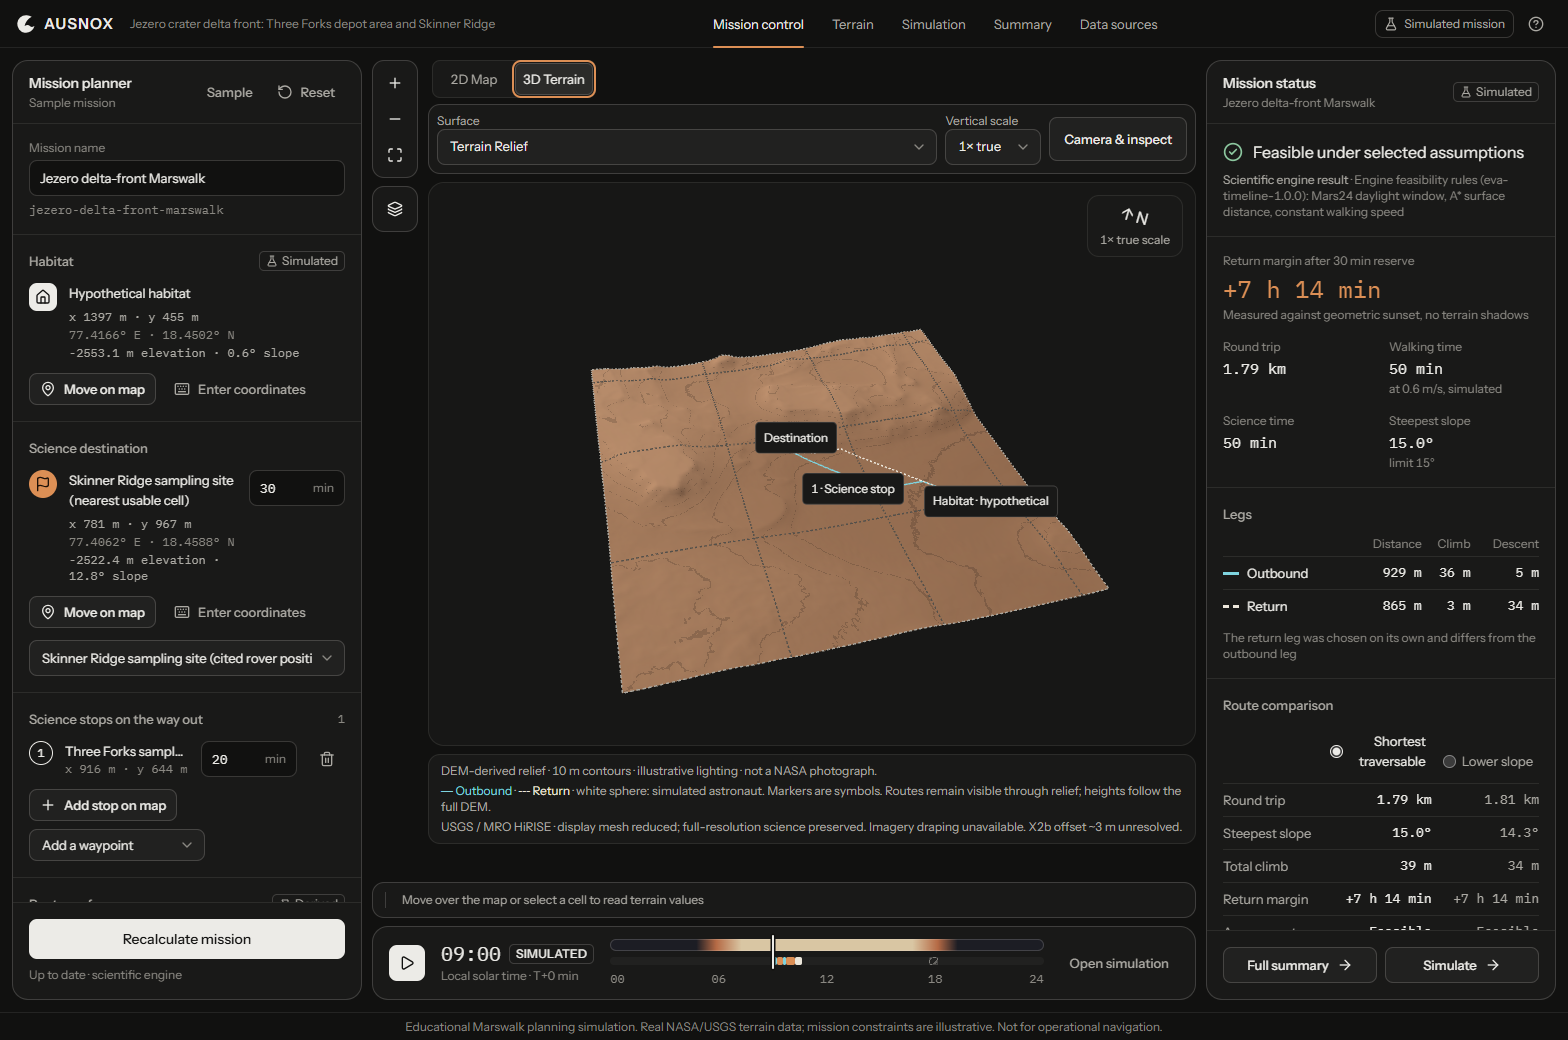
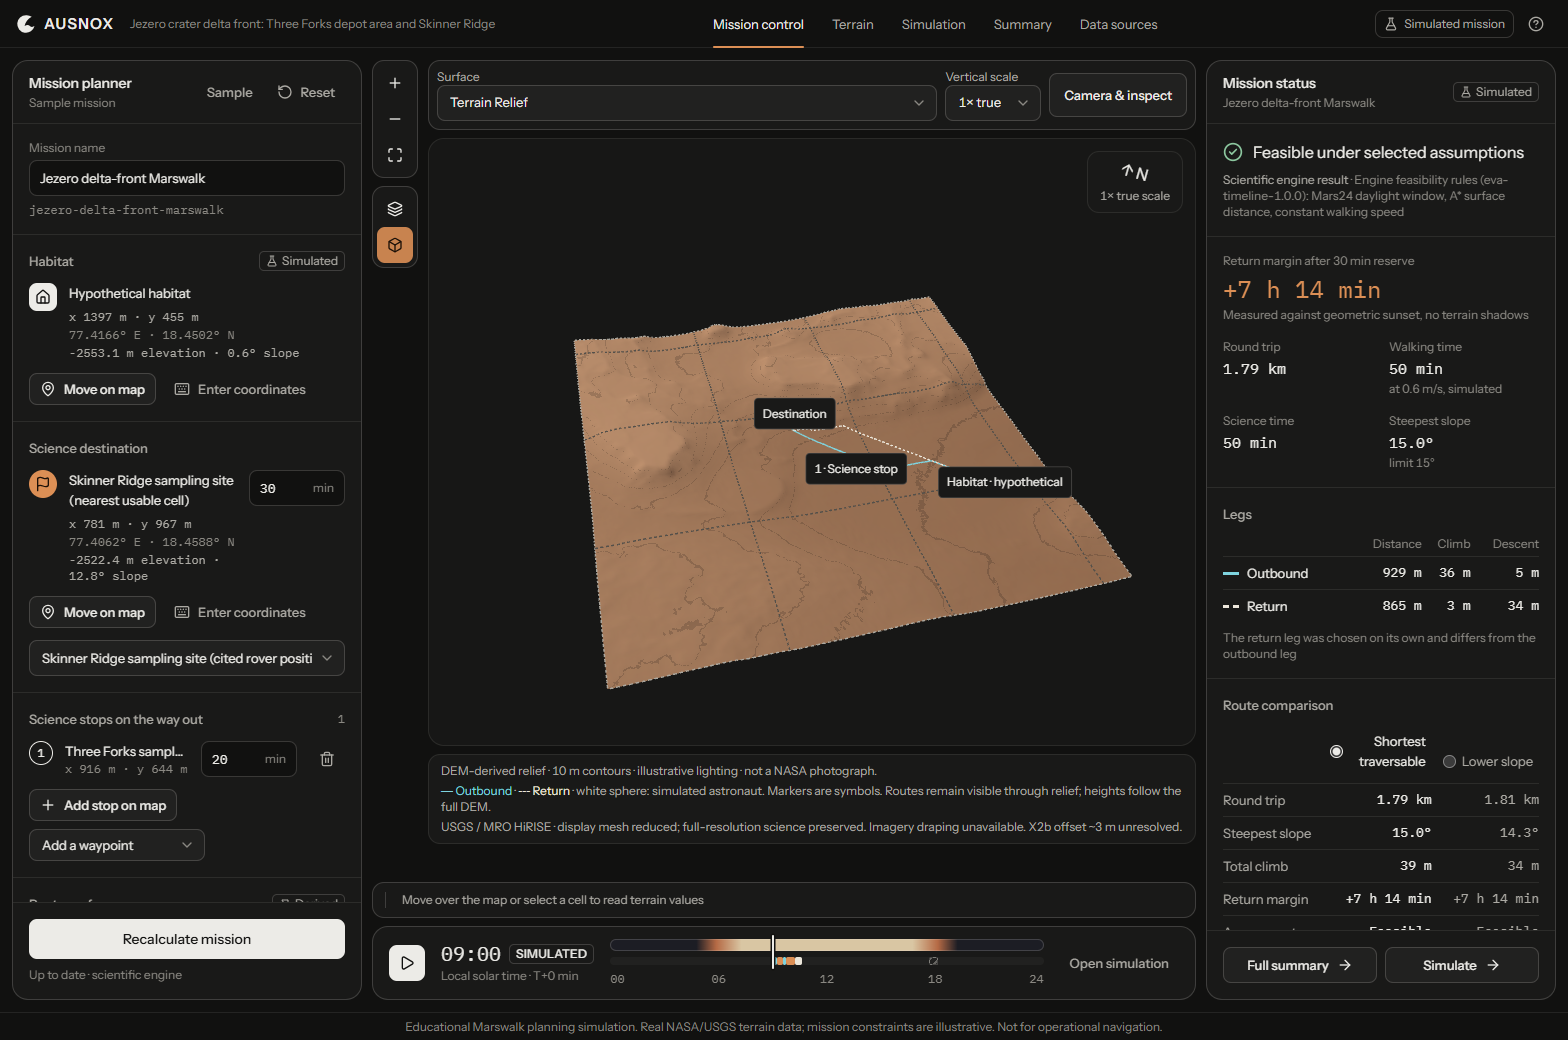
fix(ui): restore cube toggle for 3D terrain mode

diff --git a/tests/browser/jezero-3d.spec.ts b/tests/browser/jezero-3d.spec.ts
@@ -7,7 +7,10 @@ async function openMission(page: Page) {
   await expect(page.getByRole('button', { name: 'Start simulation', exact: true })).toBeEnabled()
 }
 const enter3D = async (page: Page) => {
-  await page.getByRole('radio', { name: '3D Terrain', exact: true }).press('Space')
+  const toggle = page.getByRole('button', { name: '3D terrain view', exact: true })
+  await expect(toggle).toHaveAttribute('aria-pressed', 'false')
+  await toggle.click()
+  await expect(toggle).toHaveAttribute('aria-pressed', 'true')
   const canvas = page.locator('canvas[aria-label^="3D Jezero"]')
   await expect(canvas).toHaveAttribute('data-triangles', '80000')
   await expect(canvas).toHaveAttribute('data-route-vertices', /^[1-9]\d*$/)
@@ -22,6 +25,7 @@ test('production DEM, both routes, camera, simulation, styles and shared mission
   page.on('requestfailed', (r) => failed.push(r.url()))
   page.on('request', (r) => { if (r.url().includes('/data/jezero/terrain.bin')) dataRequests.push(r.url()) })
   await openMission(page)
+  await expect(page.getByRole('radiogroup', { name: 'Map visualization' })).toHaveCount(0)
   await page.screenshot({ path: `${screenshots}/01-2d-mission-control.png` })
   const clock = page.getByRole('region', { name: 'Simulated mission clock' })
   const before = await clock.innerText()
@@ -96,17 +100,17 @@ test('production DEM, both routes, camera, simulation, styles and shared mission
   const selectedRoute = page.getByRole('radiogroup', { name: 'Route preference' })
   await selectedRoute.getByRole('radio', { name: 'Lower slope' }).press('Space')
   await expect(canvas).toHaveAttribute('data-route-vertices', /^[1-9]\d*$/)
-  await page.getByRole('radio', { name: '2D Map', exact: true }).press('Space')
+  await page.getByRole('button', { name: '3D terrain view', exact: true }).click()
   await expect(selectedRoute.getByRole('radio', { name: 'Lower slope' })).toBeChecked()
   await expect(clock.getByRole('button', { name: /Resume|Start/ })).toBeVisible()
   await enter3D(page)
   await page.getByLabel('Vertical scale', { exact: true }).selectOption('3')
   await expect(page.getByText('3× visual only', { exact: true })).toBeVisible()
-  await page.getByRole('radio', { name: '2D Map', exact: true }).press('Space')
+  await page.getByRole('button', { name: '3D terrain view', exact: true }).click()
   await enter3D(page)
   await expect(page.getByLabel('Vertical scale', { exact: true })).toHaveValue('1')
   for (let i = 0; i < 3; i++) {
-    await page.getByRole('radio', { name: '2D Map', exact: true }).press('Space')
+    await page.getByRole('button', { name: '3D terrain view', exact: true }).click()
     await enter3D(page)
   }
   expect(dataRequests).toHaveLength(1)
@@ -154,6 +158,7 @@ test('tablet 3D layout and WebGL context loss preserve the route and working 2D 
   await expect(page.locator('.three-marker')).toHaveCount(0)
   await page.screenshot({ path: `${screenshots}/08-webgl-fallback.png` })
   await page.getByRole('button', { name: 'Return to 2D Map', exact: true }).click()
+  await expect(page.getByRole('button', { name: '3D terrain view', exact: true })).toHaveAttribute('aria-pressed', 'false')
   await expect(page.locator('.leaflet-container')).toBeVisible()
   await expect(page.getByRole('button', { name: 'Start simulation' })).toBeEnabled()
 })
@@ -167,7 +172,7 @@ test('WebGL unavailable is contained and preserves the mission', async ({ page }
     } as typeof getContext
   })
   await openMission(page)
-  await page.getByRole('radio', { name: '3D Terrain', exact: true }).press('Space')
+  await page.getByRole('button', { name: '3D terrain view', exact: true }).click()
   await expect(page.getByRole('heading', { name: '3D terrain unavailable' })).toBeVisible()
   await page.getByRole('button', { name: 'Return to 2D Map', exact: true }).click()
   await expect(page.locator('.leaflet-container')).toBeVisible()

diff --git a/src/components/map/MapChrome.tsx b/src/components/map/MapChrome.tsx
@@ -1,4 +1,4 @@
-import { ChevronDown, Crosshair, Layers, LocateFixed, Maximize, Minus, Plus, RefreshCw, X } from 'lucide-react'
+import { Box, ChevronDown, Crosshair, Layers, LocateFixed, Maximize, Minus, Plus, RefreshCw, X } from 'lucide-react'
 import { Popover } from 'radix-ui'
 import { useState, type FormEvent } from 'react'
 import { StatusAlert } from '@/components/layout/primitives'
@@ -23,19 +23,21 @@ const TARGET_LABEL: Record<PlacementTarget, string> = {
 
 const float = 'rounded-card border border-line-strong bg-surface'
 
-function ToolButton({ label, onClick, children }: { label: string; onClick?: () => void; children: React.ReactNode }) {
+function ToolButton({ label, onClick, pressed, children }: { label: string; onClick?: () => void; pressed?: boolean; children: React.ReactNode }) {
   return (
     <Tooltip label={label} side="right">
-      <Button variant="ghost" size="icon" aria-label={label} onClick={onClick} className="text-fg">
+      <Button
+        variant="ghost"
+        size="icon"
+        aria-label={label}
+        aria-pressed={pressed}
+        onClick={onClick}
+        className={cn(pressed ? 'bg-accent text-accent-ink hover:bg-accent/90 hover:text-accent-ink' : 'text-fg')}
+      >
         {children}
       </Button>
     </Tooltip>
   )
-}
-
-export function MapViewSelector() {
-  const mode = useUiStore((s) => s.mapMode)
-  return <Segmented label="Map visualization" value={mode} onChange={(m) => useUiStore.getState().setMapMode(m)} options={[{ value: '2d', label: '2D Map' }, { value: '3d', label: '3D Terrain' }]} className="bg-surface" />
 }
 
 /** Shared zoom, fit and layer controls for both renderers. */
@@ -80,6 +82,9 @@ export function MapTools({ className, showLayers }: { className?: string; showLa
             </Popover.Portal>
           </Popover.Root>
         )}
+        <ToolButton label="3D terrain view" pressed={mode === '3d'} onClick={() => useUiStore.getState().setMapMode(mode === '3d' ? '2d' : '3d')}>
+          <Box aria-hidden />
+        </ToolButton>
       </div>
     </div>
   )

diff --git a/src/features/mission-control/Workspace.tsx b/src/features/mission-control/Workspace.tsx
@@ -1,7 +1,7 @@
 import { PanelLeft, PanelRight } from 'lucide-react'
 import { useEffect, type ReactNode } from 'react'
 import { Panel } from '@/components/layout/primitives'
-import { CoordinateBar, DemoMapTag, ImageryNotice, MapLegend, MapTools, MapViewSelector, PlacementBanner, RegistrationTag } from '@/components/map/MapChrome'
+import { CoordinateBar, DemoMapTag, ImageryNotice, MapLegend, MapTools, PlacementBanner, RegistrationTag } from '@/components/map/MapChrome'
 import { MarsMap } from '@/components/map/MarsMap'
 import { TerrainView } from '@/components/map/TerrainView'
 import { SimDock } from '@/components/simulation/SimControls'
@@ -61,7 +61,7 @@ export function Workspace({ view }: { view: MapView }) {
           padding={{ left: inset + (desktop ? 56 : 0), right: inset, top: desktop ? 24 : 72, bottom: 160 }}
         />
       </div>
-      {mapMode === '3d' && <div className="absolute" style={{ left: inset + 56, right: inset, top: desktop ? 56 : 108, bottom: 168 }}><TerrainView /></div>}
+      {mapMode === '3d' && <div className="absolute" style={{ left: inset + 56, right: inset, top: desktop ? 12 : 64, bottom: 168 }}><TerrainView /></div>}
 
       {desktop ? (
         <>
@@ -100,7 +100,6 @@ export function Workspace({ view }: { view: MapView }) {
       <div className="absolute z-10" style={{ left: inset, top: desktop ? 12 : 64 }}>
         <MapTools showLayers={view !== 'terrain' || !desktop} />
       </div>
-      <div className="absolute z-10" style={{ left: inset + 60, top: desktop ? 12 : 64 }}><MapViewSelector /></div>
       <div className="absolute top-3 z-10" style={{ right: inset }}>
         {mapMode === '2d' && <MapLegend defaultOpen={false} />}
       </div>

diff --git a/src/components/map/three/Mars3DViewer.test.tsx b/src/components/map/three/Mars3DViewer.test.tsx
@@ -2,7 +2,7 @@ import { render, screen, waitFor, within } from '@testing-library/react'
 import userEvent from '@testing-library/user-event'
 import { beforeEach, describe, expect, it, vi } from 'vitest'
 import { TooltipProvider } from '@/components/ui/overlay'
-import { CoordinateEntryDialog, MapViewSelector } from '@/components/map/MapChrome'
+import { CoordinateEntryDialog, MapTools } from '@/components/map/MapChrome'
 import { services } from '@/services'
 import { useDataStore } from '@/stores/dataStore'
 import { useMissionStore } from '@/stores/missionStore'
@@ -36,10 +36,15 @@ describe('shared 2D/3D controls', () => {
     const user = userEvent.setup()
     useSimStore.setState({ simS: 300, playing: false })
     const m = useMissionStore.getState(), sim = useSimStore.getState()
-    render(<MapViewSelector />)
-    await user.click(screen.getByText('3D Terrain'))
+    render(<TooltipProvider><MapTools showLayers /></TooltipProvider>)
+    const toggle = screen.getByRole('button', { name: '3D terrain view' })
+    expect(toggle).toHaveAttribute('aria-pressed', 'false')
+    await user.click(toggle)
+    expect(toggle).toHaveAttribute('aria-pressed', 'true')
     expect(useUiStore.getState().mapMode).toBe('3d')
-    await user.click(screen.getByText('2D Map'))
+    await user.keyboard('[Space]')
+    expect(toggle).toHaveAttribute('aria-pressed', 'false')
+    expect(useUiStore.getState().mapMode).toBe('2d')
     const after = useMissionStore.getState()
     expect(after.config).toBe(m.config); expect(after.routes).toBe(m.routes); expect(after.assessments).toBe(m.assessments)
     expect(after.requestId).toBe(m.requestId); expect(useSimStore.getState()).toBe(sim)

diff --git a/docs/3D_TERRAIN_HANDOFF.md b/docs/3D_TERRAIN_HANDOFF.md
@@ -4,7 +4,7 @@ Branch: `feat/3d-jezero-explorer`, based on freshly fetched `origin/main` at `a9
 
 ## Feature and dependencies
 
-The existing Mission Control, Terrain and Simulation workspaces now offer **2D Map / 3D Terrain**. They share one loaded DEM, mission configuration, pair of route-mode results, assessments and simulated clock. The feature does not introduce another route planner or clock.
+The existing Mission Control, Terrain and Simulation workspaces use the original **cube icon** beneath the layer control to toggle 3D. It lights up in copper while 3D is active; clicking it again returns to 2D. The button exposes its state through `aria-pressed` and supports Enter/Space. There is no separate 2D/3D selector. The views share one loaded DEM, mission configuration, pair of route-mode results, assessments and simulated clock. The feature does not introduce another route planner or clock.
 
 Added exact versions: `three` **0.187.0**, `@types/three` **0.187.0**, `@playwright/test` **1.65.1** (development only). Existing React **19.3.1**, TypeScript **6.0.3**, Vite **8.3.8**, Zustand **5.1.0** and `@ausnox/scientific-engine` **0.1.0** remain in use. Three.js is MIT licensed; Playwright is Apache-2.0. AI-assisted implementation: OpenAI Codex.
 
@@ -104,7 +104,7 @@ Rendering is demand-driven, with frames only for camera damping, resizing or cha
 
 ## Verification and performance evidence
 
-Executed on **2026-11-15**, Windows / Node **24.13.0**, implementation commit `7cd877f`. Final results:
+Executed on **2026-11-15**, Windows / Node **24.13.0**. Initial implementation: `7cd877f`; the cube-toggle revision was rechecked with typecheck, lint, all 97 frontend/integration tests, production build and all three browser scenarios. The scientific engine and dependencies did not change in that UI revision. Results:
 
 | Check | Result |
 | --- | --- |
@@ -113,8 +113,8 @@ Executed on **2026-11-15**, Windows / Node **24.13.0**, implementation commit `7
 | `npm run lint` | **PASS**, no errors or warnings |
 | `npx vitest run` | **PASS**, 7 files / **97 tests** (original 86 plus 8 geometry/integration and 3 React/store tests) |
 | `npm run test:engine` | **PASS**, 6 files / **88 tests** |
-| `npm run build` | **PASS**, Vite production build 3.16 s; lazy 3D chunk 586.23 kB / 147.75 kB gzip, advisory chunk-size warning |
-| Production Playwright | **PASS**, **3 tests**, 29.3 s; 1568×1040 desktop, 820×1180 tablet and live resize to 1024×820 |
+| `npm run build` | **PASS**, Vite production build 1.96 s; lazy 3D chunk 586.23 kB / 147.75 kB gzip, advisory chunk-size warning |
+| Production Playwright | **PASS**, **3 tests**, 48.8 s; 1568×1040 desktop, 820×1180 tablet and live resize to 1024×820 |
 | Original dataset checksum | **PASS**, SHA-256 unchanged |
 | Scientific-engine / pipeline / public terrain diff | **PASS**, no changes |
 | New Python pipeline run | **NOT RUN**, no processing code or data changed |
@@ -127,13 +127,15 @@ Measured in the production build with **headless Chromium 158**, **Intel Iris Pl
 
 | Measurement | Observed |
 | --- | --- |
-| First scene assembly, including geometry, texture and overlays | **226.70 ms** |
-| Mean renderer + label CPU time across 68 rendered frames | **3.86 ms** |
-| Orbit sample, 73 animation-frame intervals | Mean **16.67 ms** (~60 fps), p95 **16.80 ms** |
+| First scene assembly, including geometry, texture and overlays | **223.30 ms** |
+| Mean renderer + label CPU time across 68 rendered frames | **3.28 ms** |
+| Orbit sample, 64 animation-frame intervals | Mean **19.01 ms** (~53 fps), p95 **16.80 ms**; one long interval affects the mean |
 | Idle frame scheduling | **No extra frames** during the 200 ms idle assertion |
 | Display complexity | **40,401 vertices / 80,000 triangles** |
 
-These are short measurements on one integrated GPU, not a broad device certification. The renderer CPU timing includes early shader work; a newly remounted scene's two-frame mean (24.10 ms in the record) is cold-start dominated and is not steady-state frame rate. The repeat scene assembly measured 161.20 ms. Exact test outcomes, hardware, timings, route counts and blocked requests are committed in [`screenshots/3d/verification.json`](screenshots/3d/verification.json).
+These are short measurements on one integrated GPU, not a broad device certification. The renderer CPU timing includes early shader work; a newly remounted scene's two-frame mean (18.05 ms in the record) is cold-start dominated and is not steady-state frame rate. The repeat scene assembly measured 81.50 ms. Exact test outcomes, hardware, timings, route counts and blocked requests are committed in [`screenshots/3d/verification.json`](screenshots/3d/verification.json).
+
+The toolbar revision restores the original cube icon under Layers, removes the separate view selector and uses a flat copper active fill. Mouse click, Enter and Space toggle the same shared view state; `aria-pressed` follows both directions and renderer fallback. The existing state-preservation test now exercises the actual toolbar toggle, and Playwright confirms that the old selector is absent. Production screenshots were refreshed. Additional review at 1440, 768 and 390 px confirmed the active/inactive control and 44 px touch targets; the existing dense phone map/marker layout is outside this component change. Design-taste source lint returned **0 FAIL / 0 WARN** for the changed UI files. Its standalone browser inspector timed out at `Page.enable` on both installed Chromium variants, so visual review used the working Playwright browser and screenshots instead; no inspector pass is claimed.
 
 Screenshots are real production-browser captures in `screenshots/3d/`:
 
